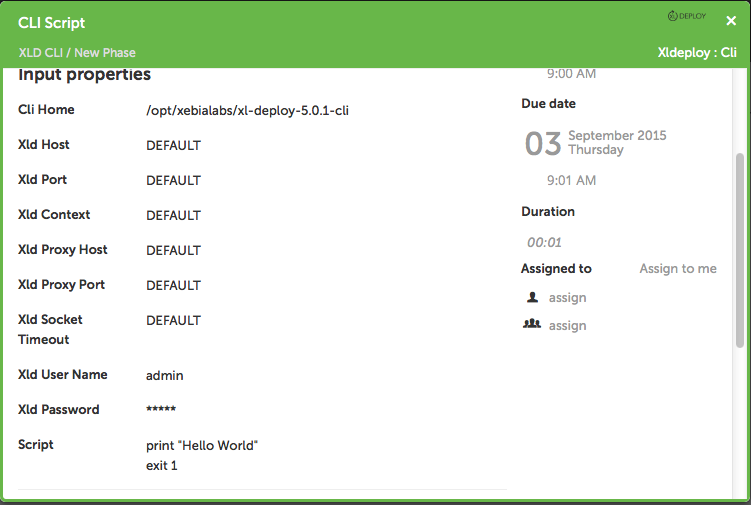
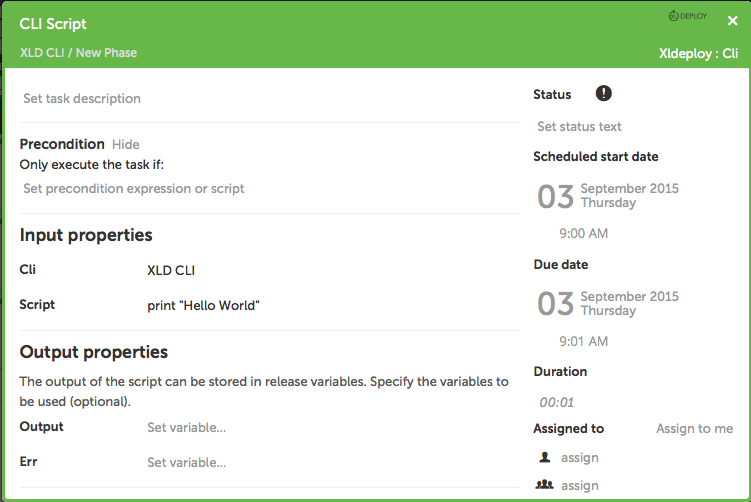
update documentation for cli tasks

diff --git a/README.md b/README.md
@@ -58,7 +58,7 @@ permission java.io.FilePermission "conf/logback.xml", "read";
   * `applicationId` - ID of the application to query for latest package version
   * `stripApplications` - Whether to strip "Applications/" from the beginning of the returned package ID
   * `packageId` - Return value with the latest package ID
-+ CLI
++ CLI Config (Global Configuration)
   * `CLI Home` - Home directory where XL Deploy CLI is installed
   * `XLD Host` - Host the CLI should connect to DEFAULT will work if on the same server as XL Deploy
   * `XLD Port` - Port for XL Deploy server.  DEFAULT will work if using the default XL Deploy port
@@ -68,21 +68,17 @@ permission java.io.FilePermission "conf/logback.xml", "read";
   * `XLD Socket timeout` - Connection timeout to XL Deploy
   * `XLD User Name` - User name to connect to XL Deploy
   * `XLD Password` - Password to connect to XL Deploy
+  
+  
+  ![image](images/XLD_CLI_Config.png)
+  
++ CLI
   * `script` - CLI Script to execute
   
   
   ![image](images/Task_Config.png)
   
 + CLI URL
-  * `CLI Home` - Home directory where XL Deploy CLI is installed
-  * `XLD Host` - Host the CLI should connect to DEFAULT will work if on the same server as XL Deploy
-  * `XLD Port` - Port for XL Deploy server.  DEFAULT will work if using the default XL Deploy port
-  * `XLD Context` - XLD CLI context.  If no context is needed then DEFAULT will be fine
-  * `XLD Proxy Host` - Proxy host if needed.
-  * `XLD Proxy Port` - Proxy Port if needed.
-  * `XLD Socket timeout` - Connection timeout to XL Deploy
-  * `XLD User Name` - User name to connect to XL Deploy
-  * `XLD Password` - Password to connect to XL Deploy
   * `scriptURL` - URL to CLI Script to execute
   
   
